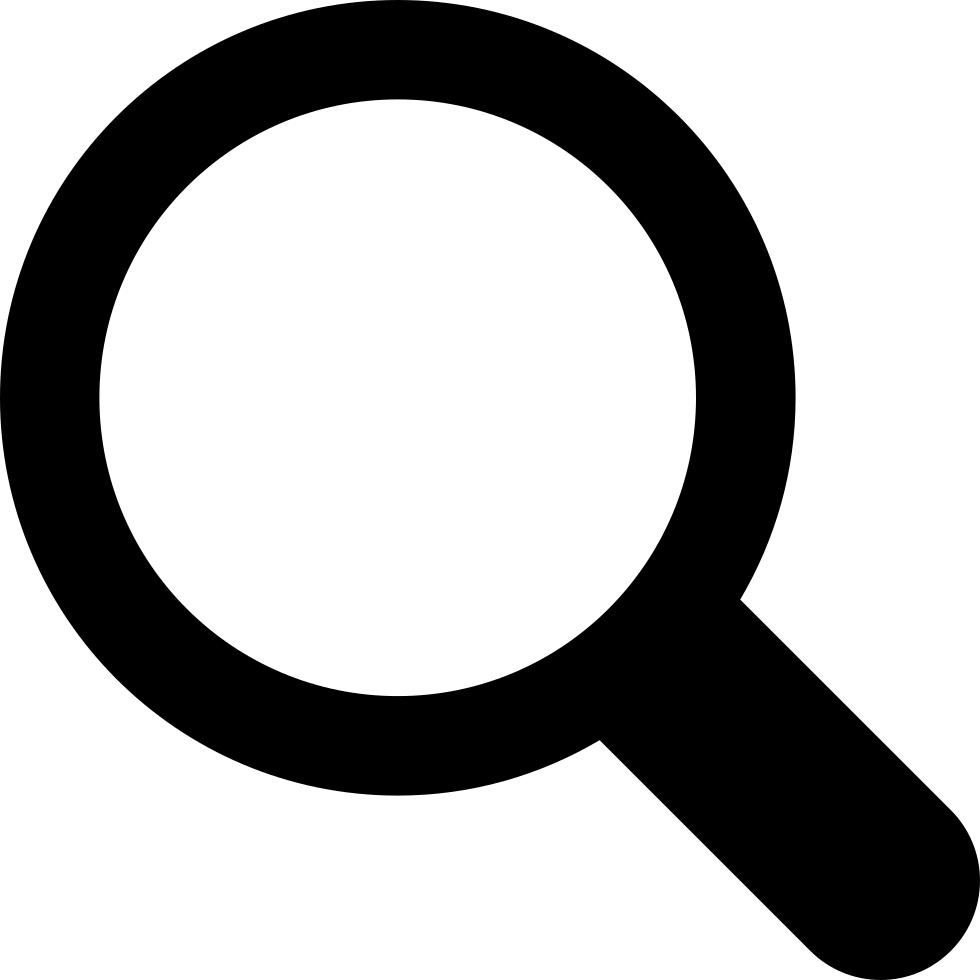
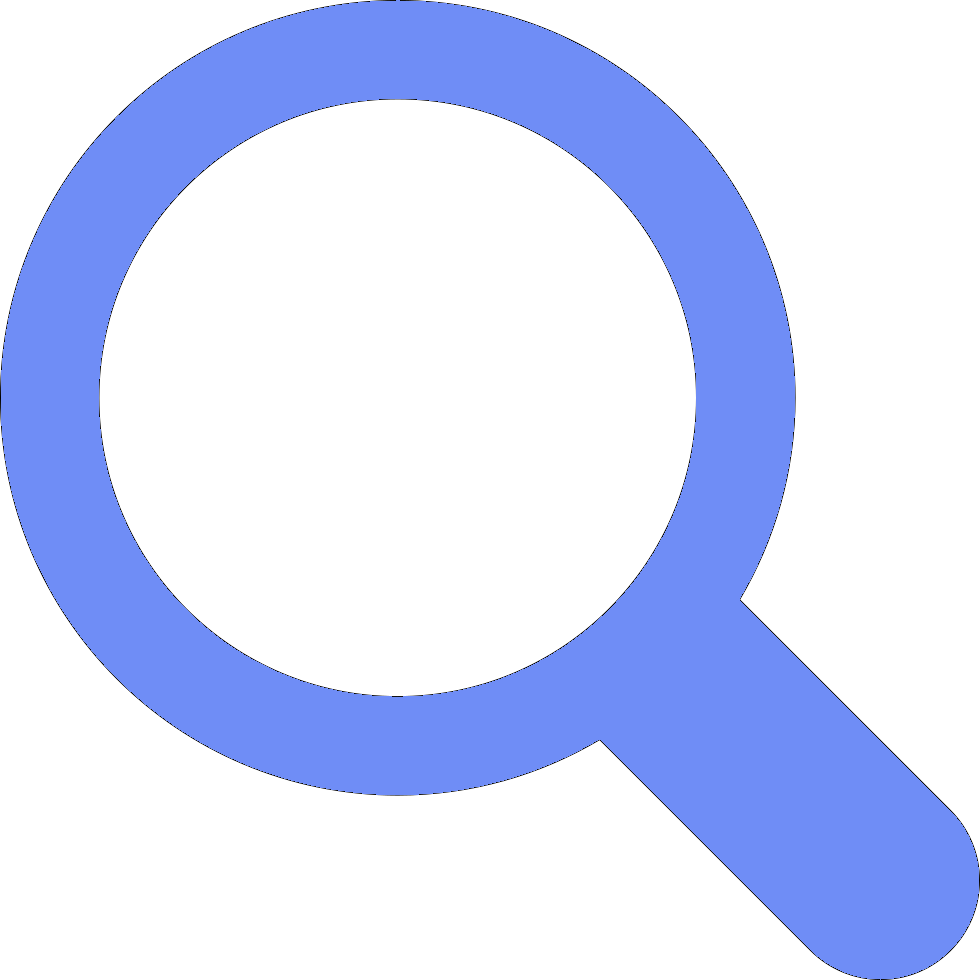
implment css to search

Changed region(s): [[0.0, 0.0, 1.0, 1.0]]

diff --git a/time-sheet-manager/out/production/resources/static/css/style.css b/time-sheet-manager/out/production/resources/static/css/style.css
@@ -147,17 +147,22 @@ a {
 /*  align-items: center;*/
 /*}*/
 
+.counter{
+  margin-top: 20px;
+}
+
 .search-form{
   height: 110px;
-  width: 35%;
+  width: 50%;
 }
 
 .search{
+  margin-top: 50px;
   width: 50px;
   height: 50px;
   font-size: 20px;
-  float: right;
-  border: 3px #ccc solid;
+  float: left;
+  border: 3px #6f8df6 solid;
   border-radius: 50%;
   background: #fff;
   background-size: 35px;
@@ -170,17 +175,17 @@ a {
 
 .search:hover {
   cursor: pointer;
-  box-shadow: 0 0 10px 0 #7f7f7f;
+  box-shadow: 0 0 10px 0 #6c7ae0;
 }
 
 .search:focus {
   cursor: text;
-  width: 100%;
+  width: 50%;
   border-radius: 25px 25px 25px 25px;
   outline: none;
   text-indent: 15px;
   background-position-x: 97%;
-  box-shadow: 0 0 10px 0 #7f7f7f;
+  box-shadow: 0 0 10px 0 #6c7ae0;
 }
 
 
@@ -249,8 +254,6 @@ tr:hover {
   background-color: #ddd
 }
 
-
-
 .results tr[visible='false'],
 .no-result{
   display:none;
@@ -260,10 +263,10 @@ tr:hover {
 /*  display:table-row;*/
 /*}*/
 
-/*.counter{*/
-/*  padding:8px;*/
-/*  color:#ccc;*/
-/*}*/
+.counter{
+  padding:8px;
+  color:#ccc;
+}
 
 /*homepage css*/
 .heroBanner.other-products-hub, .heroBanner.about-us-hub{

diff --git a/time-sheet-manager/src/main/resources/static/css/style.css b/time-sheet-manager/src/main/resources/static/css/style.css
@@ -147,17 +147,22 @@ a {
 /*  align-items: center;*/
 /*}*/
 
+.counter{
+  margin-top: 20px;
+}
+
 .search-form{
   height: 110px;
-  width: 35%;
+  width: 50%;
 }
 
 .search{
+  margin-top: 50px;
   width: 50px;
   height: 50px;
   font-size: 20px;
-  float: right;
-  border: 3px #ccc solid;
+  float: left;
+  border: 3px #6f8df6 solid;
   border-radius: 50%;
   background: #fff;
   background-size: 35px;
@@ -170,17 +175,17 @@ a {
 
 .search:hover {
   cursor: pointer;
-  box-shadow: 0 0 10px 0 #7f7f7f;
+  box-shadow: 0 0 10px 0 #6c7ae0;
 }
 
 .search:focus {
   cursor: text;
-  width: 100%;
+  width: 50%;
   border-radius: 25px 25px 25px 25px;
   outline: none;
   text-indent: 15px;
   background-position-x: 97%;
-  box-shadow: 0 0 10px 0 #7f7f7f;
+  box-shadow: 0 0 10px 0 #6c7ae0;
 }
 
 
@@ -249,8 +254,6 @@ tr:hover {
   background-color: #ddd
 }
 
-
-
 .results tr[visible='false'],
 .no-result{
   display:none;
@@ -260,10 +263,10 @@ tr:hover {
 /*  display:table-row;*/
 /*}*/
 
-/*.counter{*/
-/*  padding:8px;*/
-/*  color:#ccc;*/
-/*}*/
+.counter{
+  padding:8px;
+  color:#ccc;
+}
 
 /*homepage css*/
 .heroBanner.other-products-hub, .heroBanner.about-us-hub{

diff --git a/time-sheet-manager/out/production/resources/templates/adminshowtimesheets.html b/time-sheet-manager/out/production/resources/templates/adminshowtimesheets.html
@@ -27,7 +27,7 @@
     <div class="custom-container">
         <form class="search-form">
             <input type="text" class="search">
-            <span class="counter pull-right"></span>
+<!--            <span class="counter"></span>-->
         </form>
     </div>
 

diff --git a/time-sheet-manager/src/main/resources/templates/adminshowtimesheets.html b/time-sheet-manager/src/main/resources/templates/adminshowtimesheets.html
@@ -27,7 +27,7 @@
     <div class="custom-container">
         <form class="search-form">
             <input type="text" class="search">
-            <span class="counter pull-right"></span>
+<!--            <span class="counter"></span>-->
         </form>
     </div>
 
